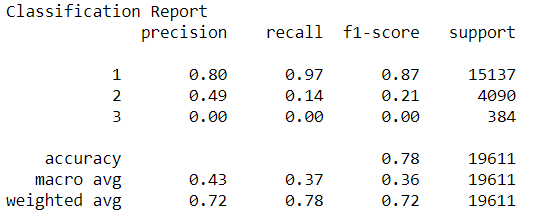
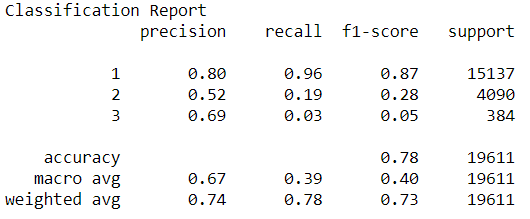
Decision tree update

diff --git a/index.html b/index.html
@@ -318,7 +318,7 @@ rgr.score(X,y)</code>
                 <!-- <h3>Process</h3> -->
                 <h4>Decision Tree</h4>
                 <p>
-                    We also create a decision tree model to classify fire size class based on other features (cause of the fire, longitute, latitude, fire duration, state, and month). After again splitting our data into training (70%) and testing (30%) data, we fit our decision tree model, which acheives an accuracy of 0.49 after tuning the max depth of our decision tree to get the best accuracy (max depth of 3 layers). 
+                    We also create a decision tree model to classify fire size class based on other features (cause of the fire, longitute, latitude, fire duration, state, and month). After again splitting our data into training (70%) and testing (30%) data, we fit our decision tree model, which acheives an accuracy of 0.46. This accuracy seems pretty low for our model and data, so we try pruning the decision tree on max_depth to limit the number of layers and prevent overfitting of the data to the training set. After testing and pruning the data, we find an optimal max depth of 3 layers and get a new accuracy of 0.50. This is a good improvement. 
 
                     The decision tree visualization is shown below. Also, as we can see from the classification report, our model is most accurate in classifieing the smallest two categories of fires, and performs very poorly in classifing the 5 larger catagories of fires. 
 
@@ -326,7 +326,7 @@ rgr.score(X,y)</code>
 
                     <img src="assets/dt1_report.png">
 
-                    We want to see if we can improve our accuracy by reducing the number of fire size classes (7 to 3) just as we did earlier in gradient boosting. So after fitting our new decision tree model using the new classification catagories (small (class A, B), medium (class C, D, E, F), and large (class G)), we obtain a model that has an accuracy of 0.78 after tuning our max depth to 3. 
+                    We want to see if we can improve our accuracy by reducing the number of fire size classes (7 to 3) just as we did earlier in gradient boosting. So after fitting our new decision tree model using the new classification catagories (small (class A, B), medium (class C, D, E, F), and large (class G)), we obtain a model that has an accuracy of 0.78 after pruning and finding an optimal max depth of 4 layers. 
 
                     The decision tree visualtion for the updated model is shown below. Looking at the classification report for the improved model, we can see that our model is very good at classifing the small fires, which is the majority of fires that occur throughout the year. It is less accurate when trying to classify medium and large fires. The accuracy of our new model is very good and increased greatly from our old model, which shows that it is far more effective at classifing new fire sizes.
 
